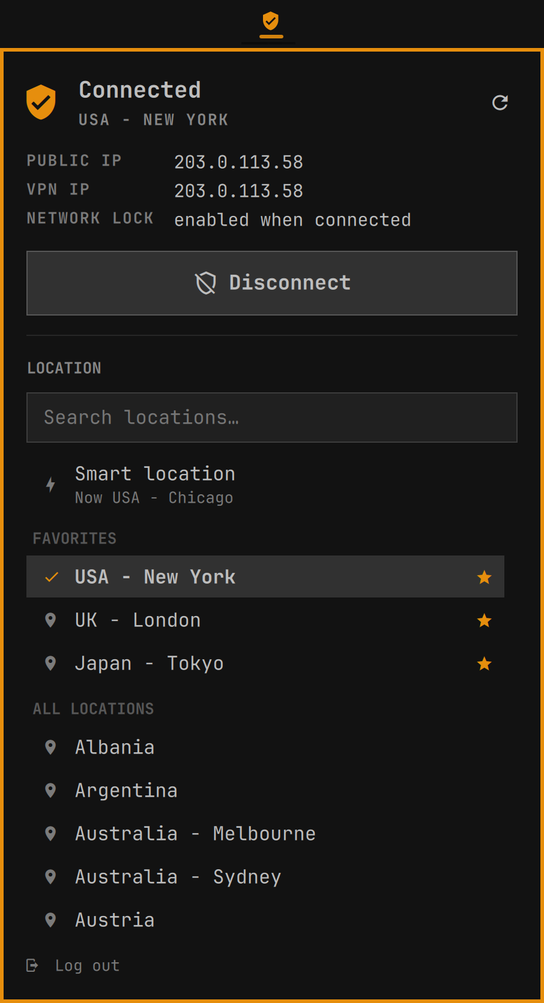
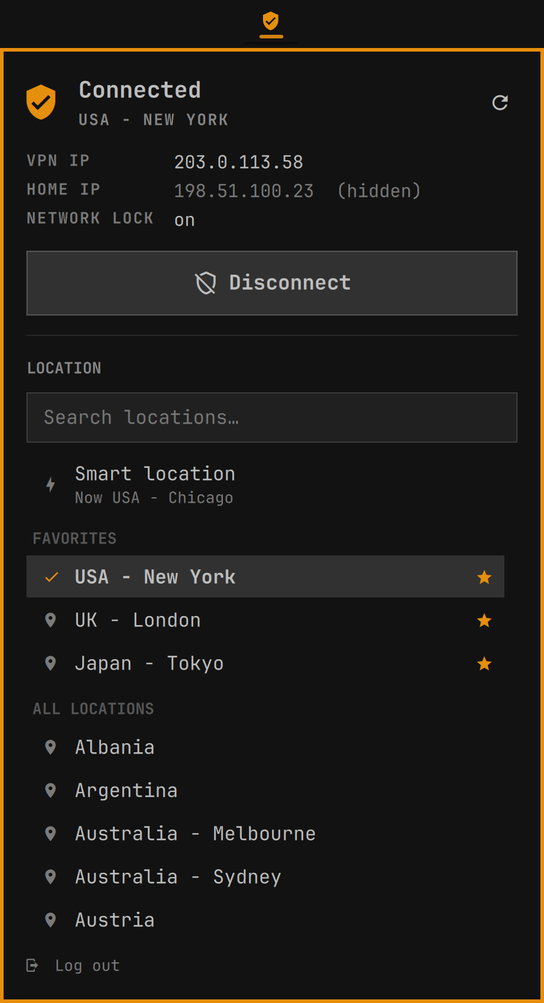
Show the VPN IP, not the home IP, while connected (1.0.1)
`expressvpnctl get pubip` keeps reporting the pre-VPN home address while
the tunnel is up, so the panel was labeling the home IP as the public
IP. Disconnected, the panel still shows the public IP. Engaged, it now
shows the VPN IP first and the home IP dimmed as hidden, and the
tooltip lists the VPN IP only.

Parse the connected `status` format ("Connected to <slug>", no
Location line) for the location, and derive the Network Lock row from
status text, shown as "on" while connected in "enabled when connected".
The fake ctl now prints the real connected format, and the preview is
regenerated from fake data.

diff --git a/Model.js b/Model.js
@@ -174,8 +174,13 @@ function looksServiceDown(text) {
 }
 
 // `expressvpnctl status` prints the connection state on its first line (or
-// "Not logged in."), then "Key: value" lines such as Location, Network Lock
-// and Split Tunnel.
+// "Not logged in."), then "Key: value" lines. Disconnected, it looks like
+//   Disconnected / Location: <slug> / Network Lock: ... / Split Tunnel: ...
+// and connected, the location rides on the first line instead:
+//   Connected to <slug> / Protocol in use: ... / Network Lock: ... / ...
+// Network Lock reads "disabled", "enabled when connected" or "always
+// enabled". (`get networklock` says false even in "enabled when connected",
+// so the widget never uses it.)
 function parseStatus(text) {
   var out = { state: "", notLoggedIn: false, location: "", networkLock: "", splitTunnel: "" }
   var raw = String(text || "")
@@ -194,7 +199,11 @@ function parseStatus(text) {
     }
     if (out.state === "") {
       var st = normalizeState(line.split(/\s+/)[0])
-      if (st !== "") out.state = st
+      if (st !== "") {
+        out.state = st
+        var to = line.match(/^\S+\s+to\s+(\S+)\s*$/i)
+        if (to && out.location === "") out.location = to[1]
+      }
     }
   }
   return out
@@ -206,11 +215,23 @@ function cleanIp(v) {
   return /^[0-9a-f.:]+$/i.test(s) ? s : ""
 }
 
+// Network Lock as shown in the panel: "on" while it is actually engaged,
+// otherwise the daemon's own wording.
+function networkLockLabel(state, raw) {
+  var v = String(raw || "").trim()
+  if (v === "") return ""
+  if (state === "Connected" && /^enabled when connected$/i.test(v)) return "on"
+  return v
+}
+
+// `get pubip` keeps reporting the pre-VPN (home) address while the tunnel is
+// up, so it is only ever called the public IP while disconnected. When the
+// VPN is engaged, only the VPN IP is offered.
 function tooltip(state, serviceDown, needsLogin, region, vpnIp, pubIp) {
   var lines = ["ExpressVPN: " + stateLabel(state, serviceDown, needsLogin)]
   if (!serviceDown && !needsLogin) {
     if (region) lines.push(prettyRegion(region))
-    if (state === "Connected" && vpnIp) lines.push("VPN IP " + vpnIp)
+    if (isEngaged(state)) { if (vpnIp) lines.push("VPN IP " + vpnIp) }
     else if (pubIp) lines.push("Public IP " + pubIp)
   }
   return lines.join("\n")

diff --git a/Widget.qml b/Widget.qml
@@ -57,6 +57,7 @@ Panel {
   readonly property string kind: Model.kindFor(vpnState, serviceDown, needsLogin)
   readonly property bool engaged: Model.isEngaged(vpnState)
   readonly property bool usable: !serviceDown && !needsLogin
+  readonly property string networkLockText: Model.networkLockLabel(vpnState, networkLock)
 
   // ------------------------------------------------------------ ui state
   property string pendingRegion: ""     // optimistic selection until the daemon agrees
@@ -632,12 +633,21 @@ Panel {
           columnSpacing: Style.space(12)
           rowSpacing: Style.space(3)
 
-          DetailKey { text: "PUBLIC IP" }
-          DetailValue { text: root.pubIp || "—" }
-          DetailKey { text: "VPN IP" }
-          DetailValue { text: root.vpnState === "Connected" && root.vpnIp ? root.vpnIp : "—" }
-          DetailKey { visible: root.networkLock !== ""; text: "NETWORK LOCK" }
-          DetailValue { visible: root.networkLock !== ""; text: root.networkLock }
+          // `get pubip` keeps returning the pre-VPN (home) address while the
+          // tunnel is up, so it is labeled Public IP only while disconnected.
+          // Engaged, the VPN IP comes first and the home IP is shown dimmed.
+          DetailKey { visible: !root.engaged; text: "PUBLIC IP" }
+          DetailValue { visible: !root.engaged; text: root.pubIp || "—" }
+          DetailKey { visible: root.engaged; text: "VPN IP" }
+          DetailValue { visible: root.engaged; text: root.vpnIp || "—" }
+          DetailKey { visible: root.engaged && root.pubIp !== ""; text: "HOME IP" }
+          DetailValue {
+            visible: root.engaged && root.pubIp !== ""
+            text: root.pubIp + "  (hidden)"
+            color: root.dim
+          }
+          DetailKey { visible: root.networkLockText !== ""; text: "NETWORK LOCK" }
+          DetailValue { visible: root.networkLockText !== ""; text: root.networkLockText }
         }
 
         // ---------- Connect / Disconnect ----------

diff --git a/README.md b/README.md
@@ -97,6 +97,9 @@ typing can't switch locations. Escape closes the panel.
   - A daemon that isn't answering. One-shot commands time out when the daemon is down, while the monitor just waits silently.
 - Region, smart location and IP addresses are re-read after each state change
   and once a minute.
+- The IP rows depend on the state:
+  - Disconnected, the panel shows the public IP.
+  - Connected, it shows the VPN IP, with your home IP dimmed below it. `expressvpnctl get pubip` keeps reporting the pre-VPN address while the tunnel is up, so it is never labeled public then.
 - Every call passes a timeout. Nothing runs with elevated privileges.
 
 ## Login security
